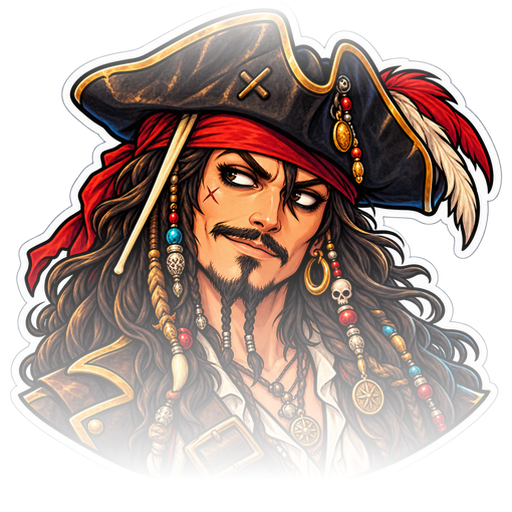
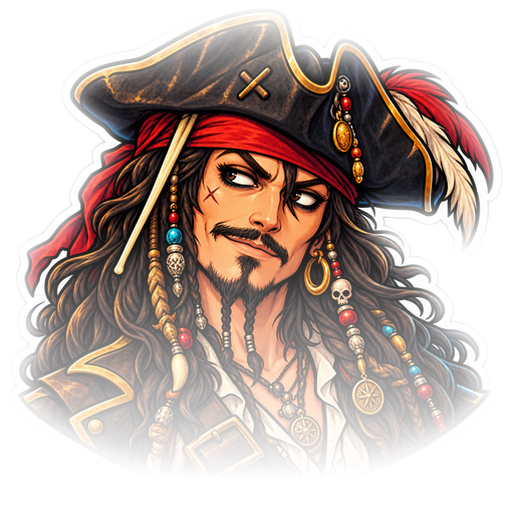
fix(fiches): la VRAIE recette des capf_ — et les cartes de mode a la toute fin
⛔ LE FONDU VERTICAL NE SUFFISAIT PAS. Mesure sur les originaux : le lisere
blanc du sticker est ABSENT et les bords fondent tout autour (rampe d'alpha de
~25 px des x=84 a mi-hauteur sur capf_read). La recette complete, appliquee aux
cinq : erosion de ~10 px (le lisere part avec le bord), plume gaussienne (12),
puis l'enveloppe verticale mesuree (entree 0-96, dissolution 224-480).
Comparaison cote a cote : conforme.

+ accueil : padding bas de la carte du pont reduit a 10 px — les quatre cartes
  de mode a la TOUTE fin de la zone (demande, trois fois).

Changed region(s): [[0.5312, 0.0312, 0.9688, 0.875], [0.0312, 0.0312, 0.4375, 0.8438], [0.125, 0.8438, 0.1562, 0.875]]

diff --git a/www/css/dice.css b/www/css/dice.css
@@ -3831,6 +3831,9 @@
   flex-direction: column;
   overflow: hidden;
   justify-content: flex-start;
+  /* Les cartes de mode a la TOUTE fin de la carte (demande, trois fois) : le
+     rembourrage bas fond a presque rien. */
+  padding-bottom: 10px;
 }
 #dicewrap .dc-menu-defile {
   flex: 1 1 auto;
